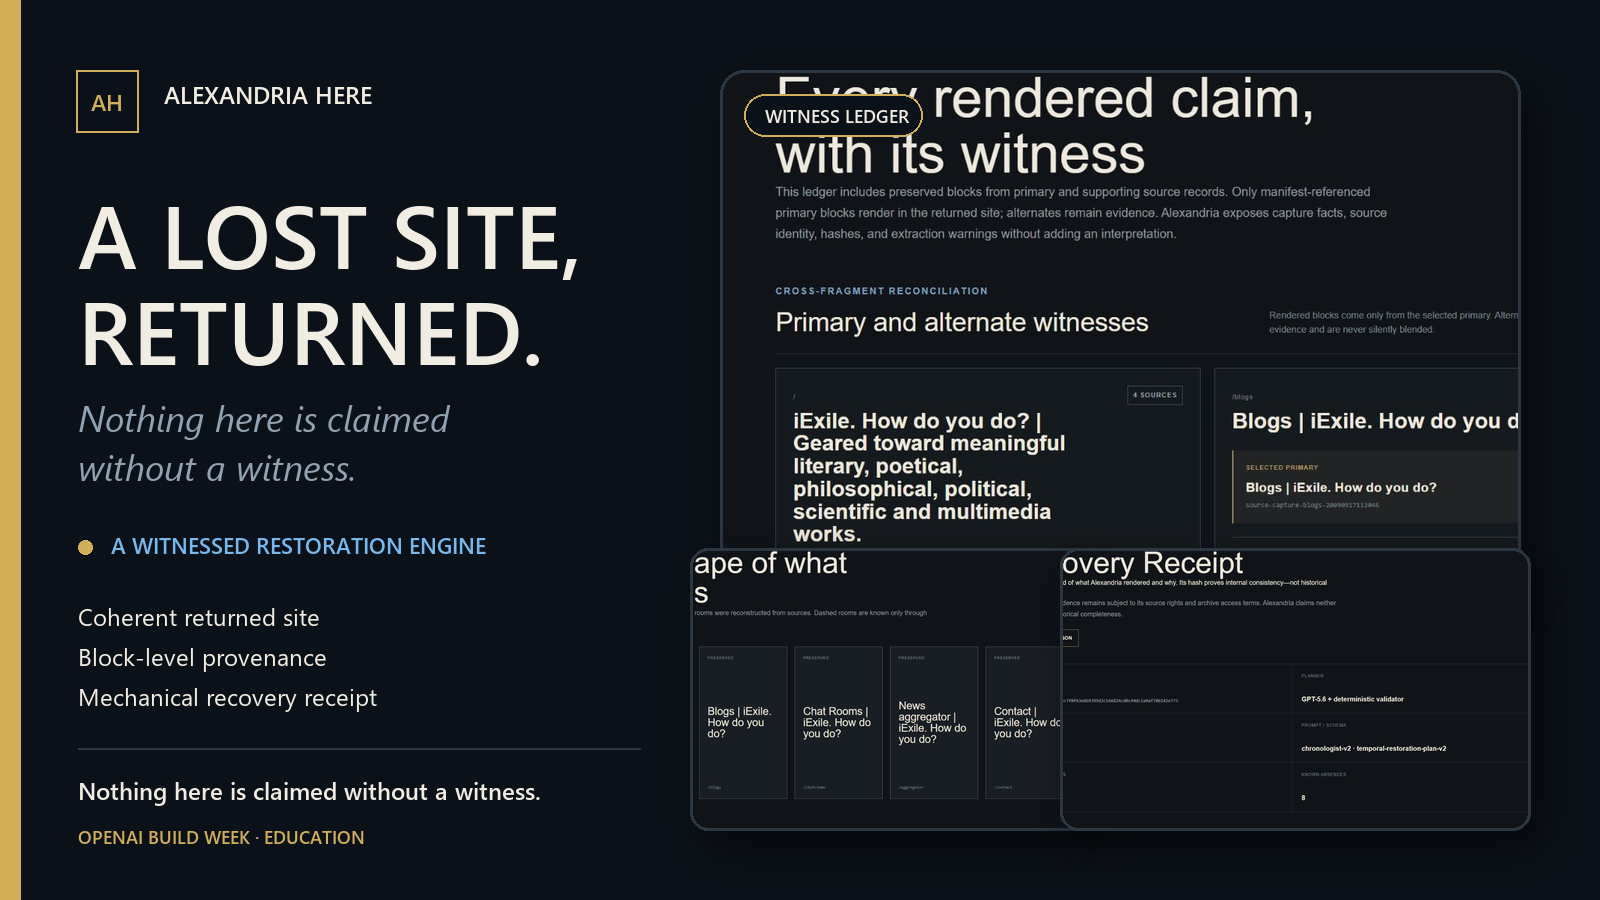
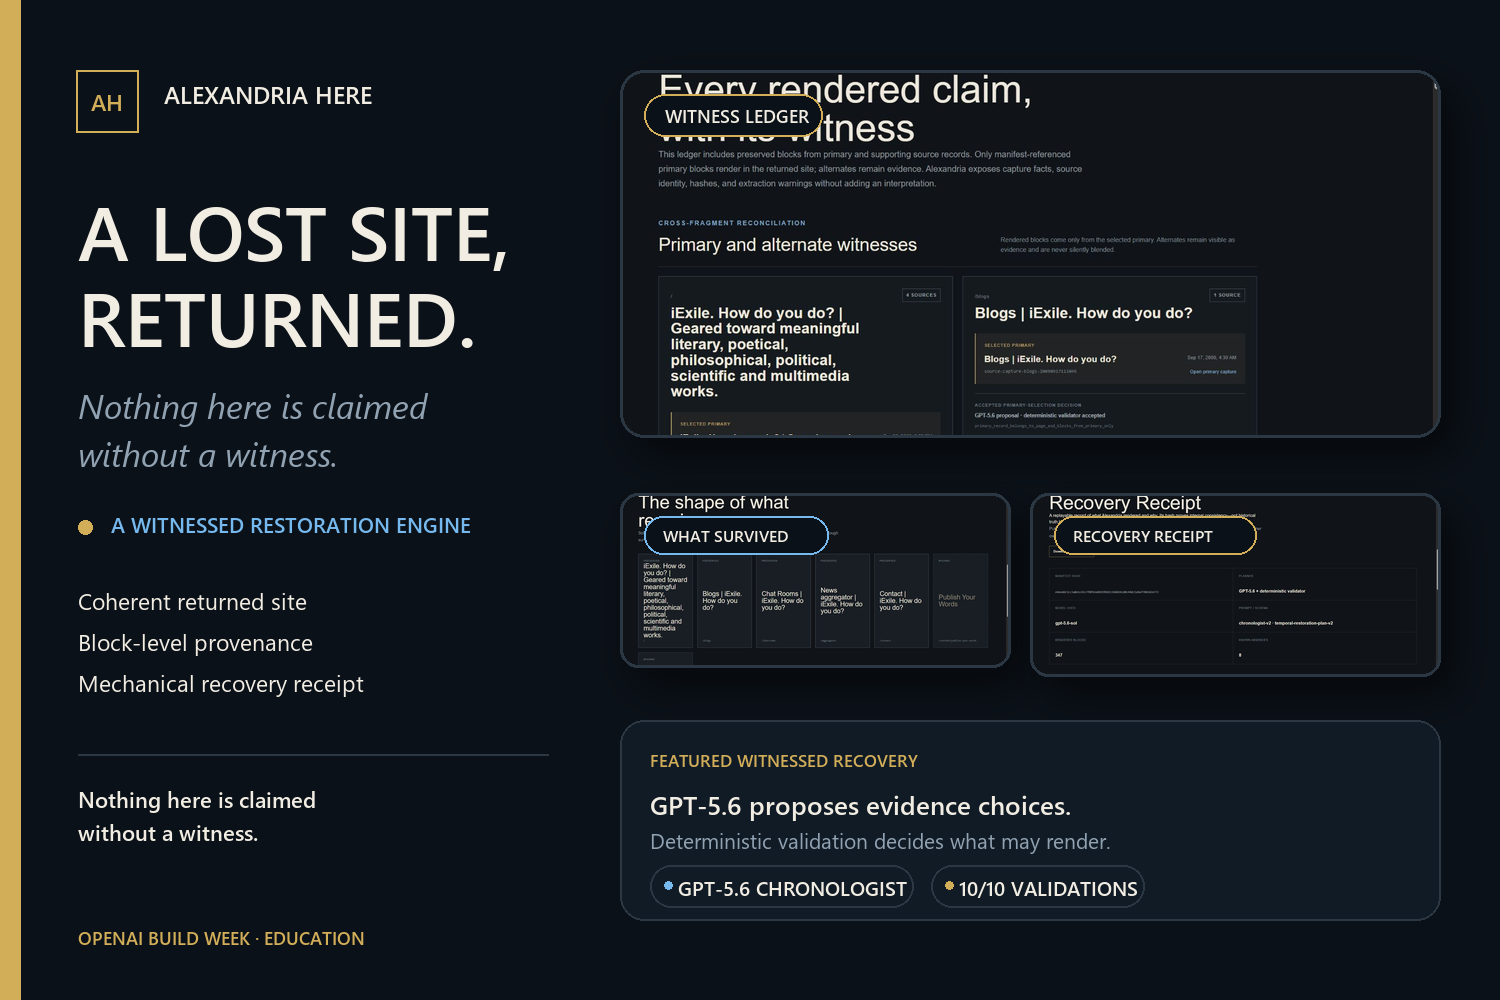
Optimize Devpost cover for 3:2

diff --git a/scripts/render-submission-covers.py b/scripts/render-submission-covers.py
@@ -106,33 +106,47 @@ def youtube_thumbnail() -> None:
 
 
 def devpost_cover() -> None:
-    canvas = Image.new("RGBA", (1600, 900), BG)
+    # Devpost recommends a 3:2 project thumbnail. Keep every embedded product
+    # frame at its native 1521:680 aspect ratio so no evidence UI is cropped.
+    canvas = Image.new("RGBA", (1500, 1000), BG)
     draw = ImageDraw.Draw(canvas)
-    draw.rectangle((0, 0, 20, 900), fill=GOLD)
+    draw.rectangle((0, 0, 20, 1000), fill=GOLD)
     draw.rectangle((76, 70, 138, 132), outline=GOLD, width=2)
     draw.text((107, 101), "AH", font=font(23, True), fill=GOLD, anchor="mm")
     draw.text((164, 78), "ALEXANDRIA HERE", font=font(24, True), fill=INK)
-    draw.text((78, 174), "A LOST SITE,", font=font(88, True), fill=INK)
-    draw.text((78, 270), "RETURNED.", font=font(88, True), fill=INK)
-    draw.text((78, 393), "Nothing here is claimed", font=font(36, italic=True), fill=MUTED)
-    draw.text((78, 442), "without a witness.", font=font(36, italic=True), fill=MUTED)
-    draw.ellipse((78, 540, 92, 554), fill=GOLD)
-    draw.text((111, 530), "A WITNESSED RESTORATION ENGINE", font=font(22, True), fill=BLUE)
-    draw.text((78, 600), "Coherent returned site", font=font(24), fill=INK)
-    draw.text((78, 640), "Block-level provenance", font=font(24), fill=INK)
-    draw.text((78, 680), "Mechanical recovery receipt", font=font(24), fill=INK)
-    draw.line((78, 748, 640, 748), fill=LINE, width=2)
-    draw.text((78, 774), "Nothing here is claimed without a witness.", font=font(24, True), fill=INK)
-    draw.text((78, 824), "OPENAI BUILD WEEK · EDUCATION", font=font(18, True), fill=GOLD)
+    draw.text((78, 178), "A LOST SITE,", font=font(76, True), fill=INK)
+    draw.text((78, 264), "RETURNED.", font=font(76, True), fill=INK)
+    draw.text((78, 382), "Nothing here is claimed", font=font(34, italic=True), fill=MUTED)
+    draw.text((78, 430), "without a witness.", font=font(34, italic=True), fill=MUTED)
+    draw.ellipse((78, 520, 92, 534), fill=GOLD)
+    draw.text((111, 510), "A WITNESSED RESTORATION ENGINE", font=font(21, True), fill=BLUE)
+    draw.text((78, 585), "Coherent returned site", font=font(23), fill=INK)
+    draw.text((78, 626), "Block-level provenance", font=font(23), fill=INK)
+    draw.text((78, 667), "Mechanical recovery receipt", font=font(23), fill=INK)
+    draw.line((78, 754, 548, 754), fill=LINE, width=2)
+    draw.text((78, 784), "Nothing here is claimed", font=font(22, True), fill=INK)
+    draw.text((78, 817), "without a witness.", font=font(22, True), fill=INK)
+    draw.text((78, 925), "OPENAI BUILD WEEK · EDUCATION", font=font(18, True), fill=GOLD)
 
     witnesses = Image.open(ASSETS / "04-witnesses-focused.png").convert("RGB")
     receipt = Image.open(ASSETS / "06-receipt-focused.png").convert("RGB")
     ghost = Image.open(ASSETS / "05-what-survived-focused.png").convert("RGB")
-    paste_rounded(canvas, witnesses, (720, 70, 1520, 600), 24, anchor_x=0.0)
-    paste_rounded(canvas, ghost, (690, 548, 1090, 830), 18)
-    paste_rounded(canvas, receipt, (1060, 548, 1530, 830), 18)
-    draw.rounded_rectangle((744, 94, 922, 136), radius=21, fill="#0b1118dd", outline=GOLD, width=2)
-    draw.text((765, 103), "WITNESS LEDGER", font=font(18, True), fill=INK)
+    paste_rounded(canvas, witnesses, (620, 70, 1440, 437), 24)
+    paste_rounded(canvas, ghost, (620, 493, 1010, 667), 18)
+    paste_rounded(canvas, receipt, (1030, 493, 1440, 676), 18)
+    draw.rounded_rectangle((644, 94, 822, 136), radius=21, fill="#0b1118dd", outline=GOLD, width=2)
+    draw.text((665, 103), "WITNESS LEDGER", font=font(18, True), fill=INK)
+    draw.rounded_rectangle((644, 516, 828, 554), radius=19, fill="#0b1118dd", outline=BLUE, width=2)
+    draw.text((663, 524), "WHAT SURVIVED", font=font(16, True), fill=INK)
+    draw.rounded_rectangle((1054, 516, 1256, 554), radius=19, fill="#0b1118dd", outline=GOLD, width=2)
+    draw.text((1073, 524), "RECOVERY RECEIPT", font=font(16, True), fill=INK)
+
+    draw.rounded_rectangle((620, 720, 1440, 920), radius=24, fill=PANEL, outline=LINE, width=2)
+    draw.text((650, 748), "FEATURED WITNESSED RECOVERY", font=font(17, True), fill=GOLD)
+    draw.text((650, 786), "GPT-5.6 proposes evidence choices.", font=font(26, True), fill=INK)
+    draw.text((650, 826), "Deterministic validation decides what may render.", font=font(21), fill=MUTED)
+    first_badge_width = badge(draw, (650, 865), "GPT-5.6 CHRONOLOGIST", BLUE)
+    badge(draw, (650 + first_badge_width + 18, 865), "10/10 VALIDATIONS", GOLD)
     canvas.convert("RGB").save(ASSETS / "08-devpost-cover.png", quality=95)
 
 

diff --git a/FINAL_SUBMISSION_HANDOFF.md b/FINAL_SUBMISSION_HANDOFF.md
@@ -30,7 +30,7 @@ After processing finishes, verify 1080p playback, audible narration, visible cap
 - GPT-5.6 recovery: https://alexandria-here.cinemaexile.chatgpt.site/r/8ea53a47-437b-4afe-ad2c-29c81637a327
 - Receipt: https://alexandria-here.cinemaexile.chatgpt.site/api/recover/8ea53a47-437b-4afe-ad2c-29c81637a327/receipt
 - Primary Codex Session ID: `019f7304-e394-7f11-ba64-26e415135ff6`
-- Cover: `submission-assets/08-devpost-cover.png`
+- Cover: `submission-assets/08-devpost-cover.png` (1500×1000, Devpost-preferred 3:2)
 - Optional gallery: `00-landing.png`, `01-returned-site.png`, `02-show-the-seams.png`, `03-timeline-focused.png`, `04-witnesses-focused.png`, `05-what-survived-focused.png`, `06-receipt-focused.png`
 - Copy-ready narrative and checklist: `SUBMISSION.md`
 

diff --git a/README.md b/README.md
@@ -12,7 +12,7 @@ The deployed engine remains operational when the model provider is unavailable: 
 
 ## Build Week submission media
 
[2 lines of base64/hex data omitted]
 
 ## Evidence boundary
 

diff --git a/SUBMISSION.md b/SUBMISSION.md
@@ -104,7 +104,7 @@ Support multiple genuinely evidenced editions from the same recovery, conflict-a
 
 ## Audited 2:35 demo
 
[2 lines of base64/hex data omitted]
 
 **0:00–0:19 — The promise.** Introduce Alexandria as a witnessed restoration engine and iExile as the founder's real lost community.
 

diff --git a/submission-assets/README.md b/submission-assets/README.md
@@ -8,7 +8,7 @@
 - `05-what-survived-focused.png` — live Ghost Map.
 - `06-receipt-focused.png` — live GPT-5.6 mechanical receipt.
 - `07-youtube-thumbnail.png` — 1280×720 public-video thumbnail using only verified product frames.
-- `08-devpost-cover.png` — 1600×900 Devpost cover using only verified product frames.
+- `08-devpost-cover.png` — 1500×1000 Devpost-preferred 3:2 cover using only verified product frames.
 - `alexandria-here-build-week-demo.mp4` — narrated 2:35 Build Week master at 1080p, including a real 40-second production interaction capture; audio is normalized near −16 LUFS at 48 kHz.
 - `alexandria-here-build-week-demo.sha256` — checksum for the full-decode-clean public master.
 - `alexandria-here-build-week-demo.en.vtt` — timed English captions aligned to the narration master.